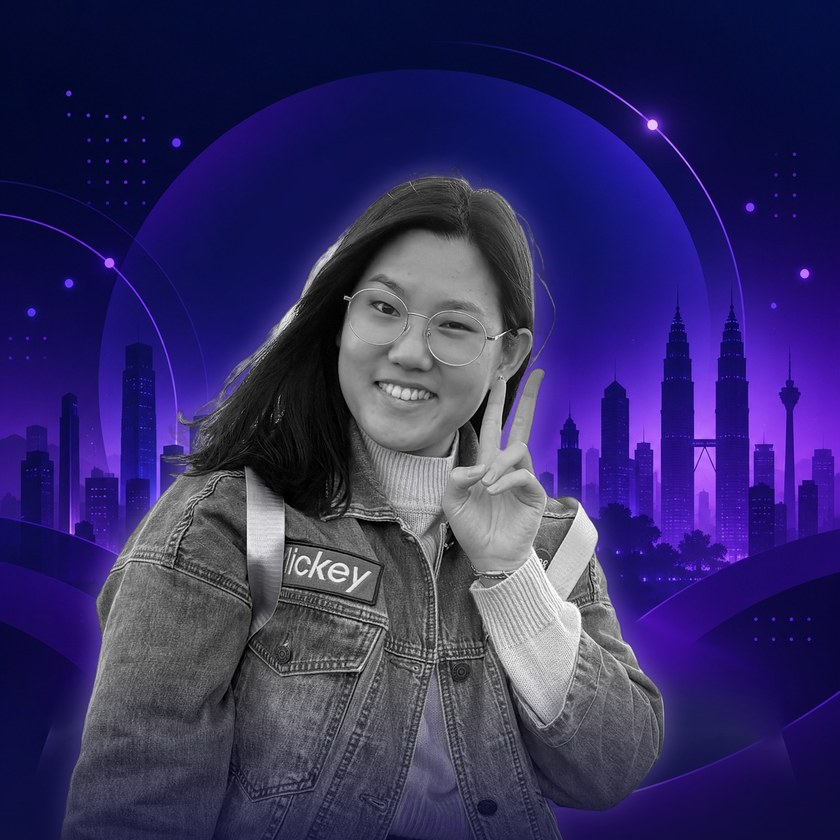
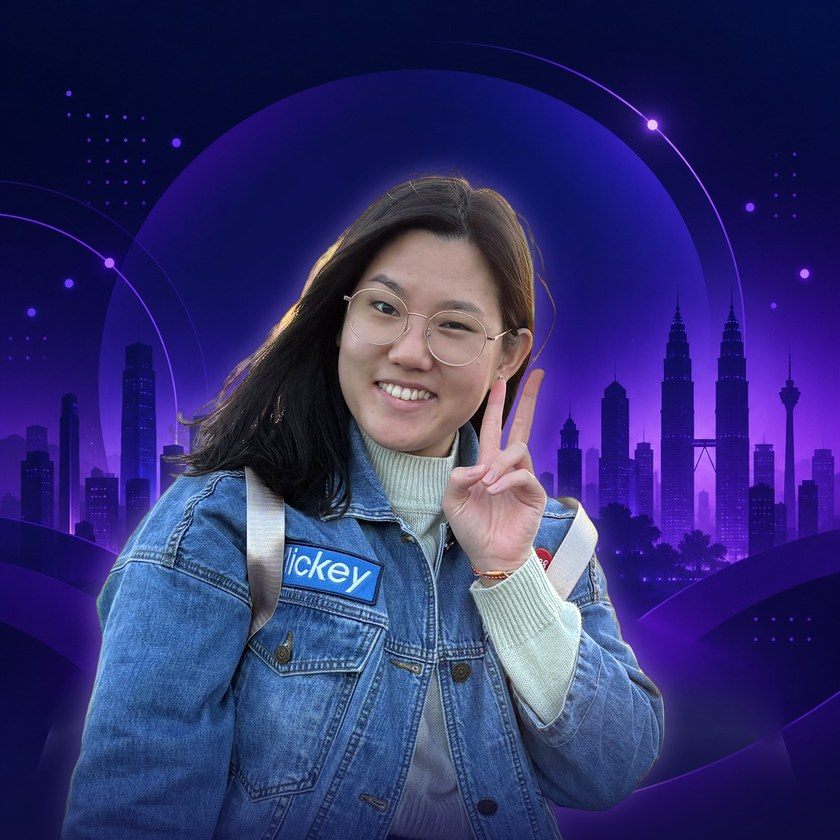
Show volunteer tiles in colour and ground Yap Hock Seng
Volunteers now appear in natural colour, slightly brightened, instead
of black and white. A photo cut off at the chest has its clothes
stretched down to the bottom of the tile so the person does not float,
and make_tile.py takes --zoom and --lower for such photos. Yap Hock
Seng's tile uses --zoom 1.5 --lower 0.05.

Changed region(s): [[0.0619, 0.2786, 0.8048, 1.0], [0.3095, 0.3405, 0.3714, 0.4333], [0.3714, 0.2786, 0.4024, 0.3405]]

diff --git a/tools/volunteer-tiles/make_tile.py b/tools/volunteer-tiles/make_tile.py
@@ -1,9 +1,9 @@
 """Make a Community Day volunteer tile from an ordinary photo.
 
-The person is cut out of the photo, turned black and white, and placed in front
-of the Kuala Lumpur skyline (background.jpg, the volunteer placeholder art with
-its silhouette taken out). The face is scaled and placed where the silhouette's
-face was, so every tile matches.
+The person is cut out of the photo, brightened a little, and placed in front of
+the Kuala Lumpur skyline (background.jpg, the volunteer placeholder art with its
+silhouette taken out). The face is scaled and placed where the silhouette's face
+was, so every tile matches.
 
     python3 make_tile.py PHOTO OUT.jpg [--crop X0,Y0,X1,Y1] [--face X,Y,H]
 
@@ -11,6 +11,15 @@ face was, so every tile matches.
            photo is wide or has other people in it.
   --face   the face centre and face height, in pixels of the original photo,
            when the face is not found automatically.
+
+A photo cut off at the chest would leave the person floating. The script then
+stretches the lowest part of their clothes down to the bottom of the tile. For
+such a photo, make the person larger and lower too (--zoom 1.5 --lower 0.05),
+so less has to be stretched. A photo showing the shoulders and some of the body
+still looks best.
+
+  --zoom   make the person larger than the standard size (1.0).
+  --lower  move the person down, as a fraction of the tile's height.
 
 Needs: pip install rembg onnxruntime pillow numpy "opencv-python-headless<5"
 (OpenCV 5 no longer has the face finder used here). The first run downloads
@@ -25,7 +34,7 @@ import os
 import sys
 
 import numpy as np
-from PIL import Image, ImageFilter, ImageOps
+from PIL import Image, ImageEnhance, ImageFilter, ImageOps
 
 HERE = os.path.dirname(os.path.abspath(__file__))
 
@@ -48,12 +57,59 @@ def find_face(rgb):
     return x + w / 2, y + h / 2, h
 
 
+def touches(edge):
+    return (edge > 128).mean() > 0.02
+
+
+def extend_body(cut, ox, oy, W, H, face_px, chin):
+    """Keep a person cut off at the chest from floating: stretch the lowest part of
+    their clothes (below the chin, folds and outline included) down to the bottom
+    of the tile. Sides cut by the photo's edge are softened instead."""
+    a = np.array(cut).astype(np.float32)
+    al = a[..., 3]
+    ch, cw = al.shape
+
+    if oy + ch < H and touches(al[-1, :]):
+        gap = H - (oy + ch) + 8
+        band = int(max(2, min(ch - max(chin, 0), max(0.15 * face_px, gap / 3))))
+        top = Image.fromarray(a[: ch - band].astype(np.uint8), "RGBA")
+        low = Image.fromarray(a[ch - band :].astype(np.uint8), "RGBA").resize((cw, band + gap), Image.BICUBIC)
+        out = Image.new("RGBA", (cw, ch + gap), (0, 0, 0, 0))
+        out.paste(top, (0, 0))
+        out.paste(low, (0, ch - band))
+        cut = out
+        a = np.array(cut).astype(np.float32)
+        al = a[..., 3]
+        ch, cw = al.shape
+
+    # A side cut by the photo's edge, or the top, fades out instead of ending in a hard line.
+    ramp = 0.25 * face_px
+    yy = np.arange(ch, dtype=np.float32)[:, None]
+    xx = np.arange(cw, dtype=np.float32)[None, :]
+
+    def smooth(t):
+        t = np.clip(t, 0, 1)
+        return t * t * (3 - 2 * t)
+
+    fade = np.ones_like(al)
+    if ox > 0 and touches(al[:, 0]):
+        fade = np.minimum(fade, smooth(xx / ramp))
+    if ox + cw < W and touches(al[:, -1]):
+        fade = np.minimum(fade, smooth((cw - 1 - xx) / ramp))
+    if oy > 0 and touches(al[0, :]):
+        fade = np.minimum(fade, smooth(yy / ramp))
+    cut.putalpha(Image.fromarray((al * fade).astype(np.uint8)))
+    return cut, ox, oy
+
+
 def main():
     ap = argparse.ArgumentParser()
     ap.add_argument("photo")
     ap.add_argument("out")
     ap.add_argument("--crop")
     ap.add_argument("--face")
+    ap.add_argument("--zoom", type=float, default=1.0)
+    ap.add_argument("--lower", type=float, default=0.0)
     args = ap.parse_args()
 
     photo = ImageOps.exif_transpose(Image.open(args.photo)).convert("RGB")
@@ -78,42 +134,20 @@ def main():
 
     bg = Image.open(os.path.join(HERE, "background.jpg")).convert("RGB")
     W, H = bg.size
-    k = FACE_H * H / fh
+    k = args.zoom * FACE_H * H / fh
     cut = cut.resize((max(1, round(cut.width * k)), max(1, round(cut.height * k))), Image.LANCZOS)
-    ox, oy = round(FACE_X * W - fx * k), round(FACE_Y * H - fy * k)
+    ox, oy = round(FACE_X * W - fx * k), round((FACE_Y + args.lower) * H - fy * k)
 
-    # A photo cropped tight (at the chest or through the shoulders) would end in a
-    # hard straight line inside the tile. Fade the person out towards any photo
-    # edge they touch, when that edge falls inside the tile.
-    alpha = np.array(cut.split()[3]).astype(np.float32)
-    ch, cw = alpha.shape
-    ramp = 0.5 * FACE_H * H
-    yy = np.arange(ch, dtype=np.float32)[:, None]
-    xx = np.arange(cw, dtype=np.float32)[None, :]
-    fade = np.ones_like(alpha)
+    cut, ox, oy = extend_body(cut, ox, oy, W, H, fh * k, (fy + 0.6 * fh) * k)
 
-    def touches(edge):
-        return (edge > 128).mean() > 0.02
-
-    def smooth(t):
-        t = np.clip(t, 0, 1)
-        return t * t * (3 - 2 * t)
-
-    if oy + ch < H and touches(alpha[-1, :]):
-        fade = np.minimum(fade, smooth((ch - 1 - yy) / ramp))
-    if ox > 0 and touches(alpha[:, 0]):
-        fade = np.minimum(fade, smooth(xx / ramp))
-    if ox + cw < W and touches(alpha[:, -1]):
-        fade = np.minimum(fade, smooth((cw - 1 - xx) / ramp))
-    if oy > 0 and touches(alpha[0, :]):
-        fade = np.minimum(fade, smooth(yy / ramp))
-    cut.putalpha(Image.fromarray((alpha * fade).astype(np.uint8)))
-
-    # Black and white, with a touch of contrast. Only the person, not the skyline.
-    a = np.array(cut).astype(np.float32)
-    lum = (0.299 * a[..., 0] + 0.587 * a[..., 1] + 0.114 * a[..., 2]) / 255.0
-    lum = np.clip((lum - 0.5) * 1.08 + 0.52, 0, 1) * 255
-    person = Image.fromarray(np.dstack([lum, lum, lum, a[..., 3]]).astype(np.uint8), "RGBA")
+    # Natural colour, a little brighter and livelier so the person stands out on the dark blue.
+    alpha = cut.split()[3]
+    rgb = cut.convert("RGB")
+    rgb = ImageEnhance.Brightness(rgb).enhance(1.06)
+    rgb = ImageEnhance.Contrast(rgb).enhance(1.05)
+    rgb = ImageEnhance.Color(rgb).enhance(1.12)
+    person = rgb.convert("RGBA")
+    person.putalpha(alpha)
 
     layer = Image.new("RGBA", (W, H), (0, 0, 0, 0))
     layer.alpha_composite(person, (max(ox, 0), max(oy, 0)), (max(-ox, 0), max(-oy, 0)))

diff --git a/README.md b/README.md
@@ -86,7 +86,7 @@ Everything on the page comes from the top of `src/pages/events/community-day-202
 - **Speakers.** Add an entry under `speakers` with `name`, `role` (job title), `affiliation` (company or university), `talk`, `linkedin` and `photo`. Speakers are shown in the order they are listed. Photos go in `src/assets/speakers/`. A speaker without a photo, or whose photo file is not there yet, is shown with their initials.
 - **Speaker placeholders.** `speakerSlots` is how many profiles the page shows. Slots without a speaker yet are shown as "Speaker to be announced", and each speaker you add takes one over. Set it to `0` to show only confirmed speakers.
 - **Schedule.** `agenda` has one entry per slot with `time`, `title` and, for a talk, `speaker`. It starts as a placeholder outline: an entry with `placeholder: true` is marked "To be announced". Replace the outline with the real slots when the agenda is set, and remove `agendaNote`, the line that tells visitors it is an outline.
-- **Volunteer team.** The last section on the page. Add an entry under `volunteers` with `name`, `photo` and, if you like, `linkedin`. `photo` names a finished tile in `src/assets/volunteers/`: the volunteer cut out, in black and white, on the skyline background, made with `tools/volunteer-tiles/make_tile.py`. A volunteer without a tile yet shows the skyline silhouette from `src/assets/volunteer-placeholder.jpg` above their name. `volunteerSlots` adds "Volunteer to be announced" tiles until that many tiles are shown; it is `0` now, so only the named volunteers appear.
+- **Volunteer team.** The last section on the page. Add an entry under `volunteers` with `name`, `photo` and, if you like, `linkedin`. `photo` names a finished tile in `src/assets/volunteers/`: the volunteer cut out, in colour, on the skyline background, made with `tools/volunteer-tiles/make_tile.py`. A volunteer without a tile yet shows the skyline silhouette from `src/assets/volunteer-placeholder.jpg` above their name. `volunteerSlots` adds "Volunteer to be announced" tiles until that many tiles are shown; it is `0` now, so only the named volunteers appear.
 - **Registration.** Add `registrationUrl` and a Register button appears at the top of the page and in the Registration section.
 - **Sponsors and partners.** Add an entry under `sponsors` with `name`, `tier`, `url` and `logo`. Entries with the same `tier` are grouped under one heading. Logos go in `src/assets/sponsors/`.
 - **Countdown.** It runs to `startTime` on `date`, in Malaysia time. Between `startTime` and `endTime` it reads "Happening now", and after `endTime` it disappears and the label above the title changes to "Past event". The numbers are added by `public/scripts/site.js` and are not written in the page itself, so search engines and tools that do not run scripts never see a row of zeros.

diff --git a/tools/volunteer-tiles/README.md b/tools/volunteer-tiles/README.md
@@ -1,6 +1,6 @@
 # Volunteer tiles
 
-Makes the Community Day volunteer photos: the person cut out of an ordinary photo, in black and white, in front of the Kuala Lumpur skyline. The face is scaled and placed where the placeholder silhouette's face was, so all tiles match.
+Makes the Community Day volunteer photos: the person cut out of an ordinary photo, in colour and slightly brightened, in front of the Kuala Lumpur skyline. The face is scaled and placed where the placeholder silhouette's face was, so all tiles match.
 
 - `background.jpg` is the volunteer placeholder art (`src/assets/volunteer-placeholder.jpg`) with the silhouette taken out.
 - `make_tile.py` makes one tile. Its first lines explain the options and what to install.
@@ -8,8 +8,9 @@ Makes the Community Day volunteer photos: the person cut out of an ordinary phot
 ```
 python3 tools/volunteer-tiles/make_tile.py photo.jpg src/assets/volunteers/jane-tan.jpg
 python3 tools/volunteer-tiles/make_tile.py wide-photo.jpg src/assets/volunteers/jane-tan.jpg --crop 1200,600,3000,2700
+python3 tools/volunteer-tiles/make_tile.py chest-up-photo.jpg src/assets/volunteers/jane-tan.jpg --zoom 1.5 --lower 0.05
 ```
 
-Use `--crop` when the photo is wide or has other people in it, and `--face` when the face is not found by itself. A photo cropped tight at the chest or shoulders is faded out towards those edges, so the person does not end in a hard line; a photo showing the shoulders and some of the body looks best. Check each tile by eye before publishing.
+Use `--crop` when the photo is wide or has other people in it, and `--face` when the face is not found by itself. A photo cut off at the chest has its clothes stretched down to the bottom of the tile so the person does not float; add `--zoom 1.5 --lower 0.05` for such a photo so less has to be stretched. A side cut by the photo edge is faded out. A photo showing the shoulders and some of the body looks best. Check each tile by eye before publishing.
 
 These files are not part of the website build.

diff --git a/src/assets/volunteers/README.md b/src/assets/volunteers/README.md
@@ -2,6 +2,6 @@
 
 One finished tile per volunteer, named to match the `photo` value in the event's `.md` file. For example, `photo: "jane-tan"` uses `jane-tan.jpg`.
 
-Each tile is a square JPG of 840 by 840 pixels: the volunteer cut out of their photo, in black and white, standing in front of the Kuala Lumpur skyline where the placeholder silhouette was. Make them with `tools/volunteer-tiles/make_tile.py` so every tile has the same background, size and position. The site shows the file as it is.
+Each tile is a square JPG of 840 by 840 pixels: the volunteer cut out of their photo, in colour, standing in front of the Kuala Lumpur skyline where the placeholder silhouette was. Make them with `tools/volunteer-tiles/make_tile.py` so every tile has the same background, size and position. The site shows the file as it is.
 
 A volunteer whose file is not here yet is shown with the skyline silhouette (`src/assets/volunteer-placeholder.jpg`) above their name, so a name can go up before the photo arrives.

diff --git a/src/pages/events/community-day-2026.md b/src/pages/events/community-day-2026.md
@@ -135,7 +135,7 @@ volunteerSlots: 0
 
 # One entry per volunteer, shown in this order. linkedin is optional.
 # photo is a file name in src/assets/volunteers without the extension: a finished tile
-# made with tools/volunteer-tiles (the person in black and white on the skyline).
+# made with tools/volunteer-tiles (the person in colour on the skyline).
 # Without a photo, the tile shows the skyline silhouette above the name.
 # Example:
 #   - name: "Full name"
